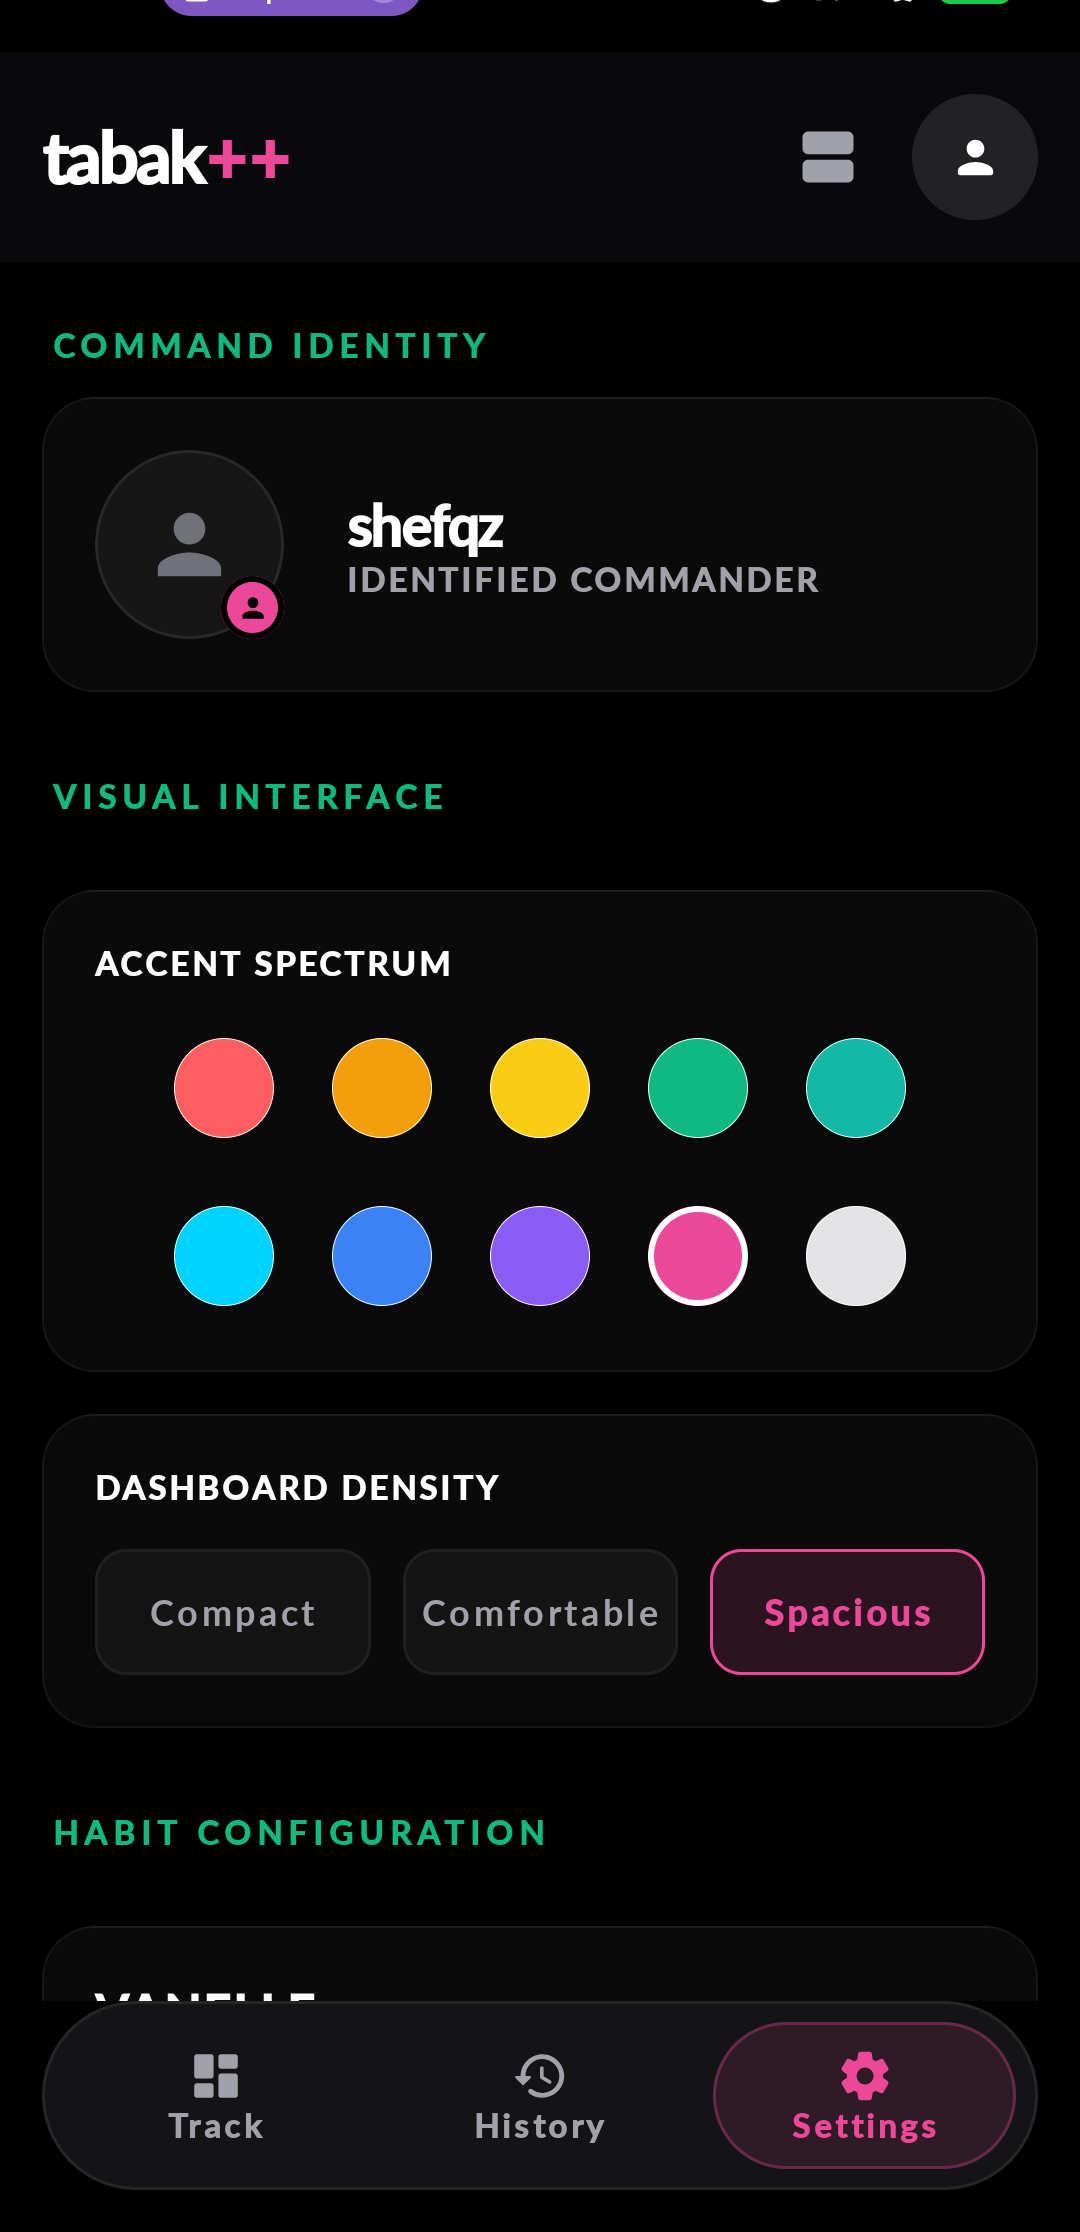
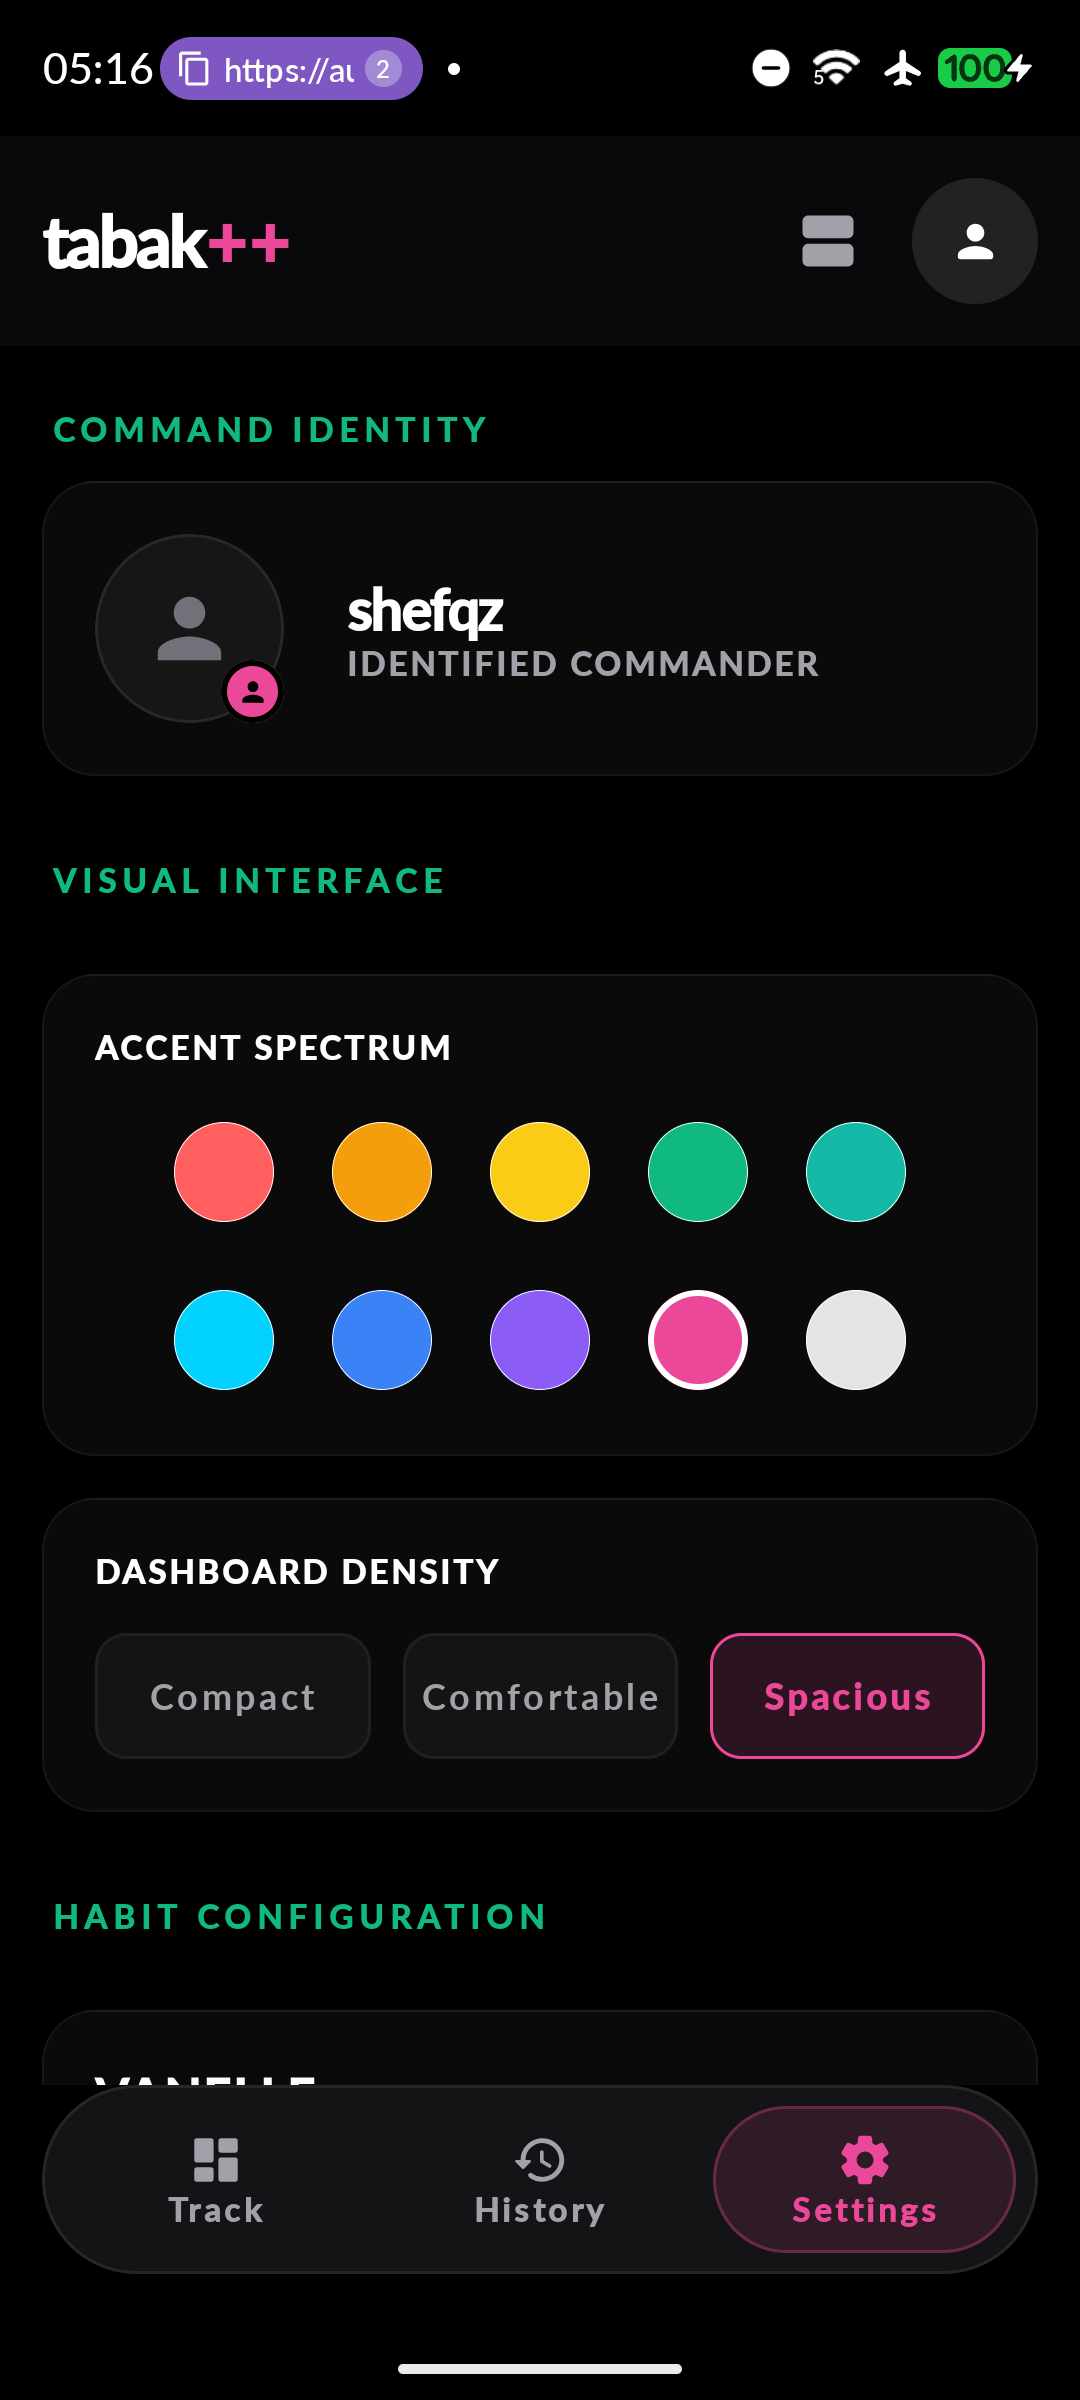
Update README for GitHub Releases and refresh Android screenshots

diff --git a/README.md b/README.md
@@ -12,6 +12,8 @@
 <p align="center">
   <a href="https://tabakpp.web.app"><strong>Open the web app</strong></a>
   ·
+  <a href="https://github.com/shareef01/tabakpp/releases/latest"><strong>Download Android APK</strong></a>
+  ·
   <a href="SETUP_GUIDE.md">Setup</a>
   ·
   <a href="PRIVACY.md">Privacy</a>
@@ -59,7 +61,7 @@ Two clients, one backend. Shared domain logic on Android lives in a Kotlin Multi
 |---|---|
 | **Android** | Kotlin · Jetpack Compose (Compose Multiplatform UI) · GitLive Firebase |
 | **Web** | React 18 · Vite · Tailwind · Firebase JS SDK · installable PWA |
-| **Backend** | Firebase Auth (email + Google) · Cloud Firestore · App Check on release |
+| **Backend** | Firebase Auth (email + Google) · Cloud Firestore · App Check |
 | **Shared (KMP)** | Models, repositories, day-rollover / streak / spend math |
 
 Realtime listeners keep Track / History / Settings in sync across devices. Firestore rules gate reads and writes to the signed-in owner.
@@ -102,7 +104,7 @@ flowchart TB
 
 ```mermaid
 flowchart LR
-  Client["Signed-in client"] --> AC{"App Check<br/>debug tokens / reCAPTCHA"}
+  Client["Signed-in client"] --> AC{"App Check<br/>reCAPTCHA / debug tokens"}
   AC --> Auth["Firebase Auth"]
   Auth --> Rules["Firestore rules"]
 
@@ -112,15 +114,15 @@ flowchart LR
   Rules --> Deny["Default deny<br/>/{document=**}"]
 ```
 
-Owner-only access under `users/{uid}`. Settings updates cannot touch counters; counter/archive writes cannot touch identity or pricing. App Check and API-key restrictions are the Spark-side abuse controls — details in [SETUP_GUIDE.md](SETUP_GUIDE.md).
+Owner-only access under `users/{uid}`. Settings updates cannot touch counters; counter/archive writes cannot touch identity or pricing. Web uses reCAPTCHA Enterprise App Check; Android GitHub builds use registered debug tokens (sideloaded APKs cannot use Play Integrity). Details in [SETUP_GUIDE.md](SETUP_GUIDE.md).
 
 ## Platforms
 
 | | |
 |---|---|
-| **Android** | Native app (`androidApp` + `composeApp` + `shared`) |
+| **Android** | Native app — install the latest APK from [GitHub Releases](https://github.com/shareef01/tabakpp/releases/latest) |
 | **Web** | PWA at [tabakpp.web.app](https://tabakpp.web.app) |
-| **iOS** | Not a release target — shell shows unsupported gate (see setup guide) |
+| **iOS** | Not a release target — shell shows an unsupported gate (see setup guide) |
 
 ## Get started
 
@@ -131,6 +133,7 @@ Full Firebase, signing, and App Check notes: **[SETUP_GUIDE.md](SETUP_GUIDE.md)*
 cd webApp && npm install && npm run dev
 
 # Android — open in Android Studio, add google-services.json, run androidApp
+# Or install a signed APK from GitHub Releases (tag v*)
 ```
 
 ---
